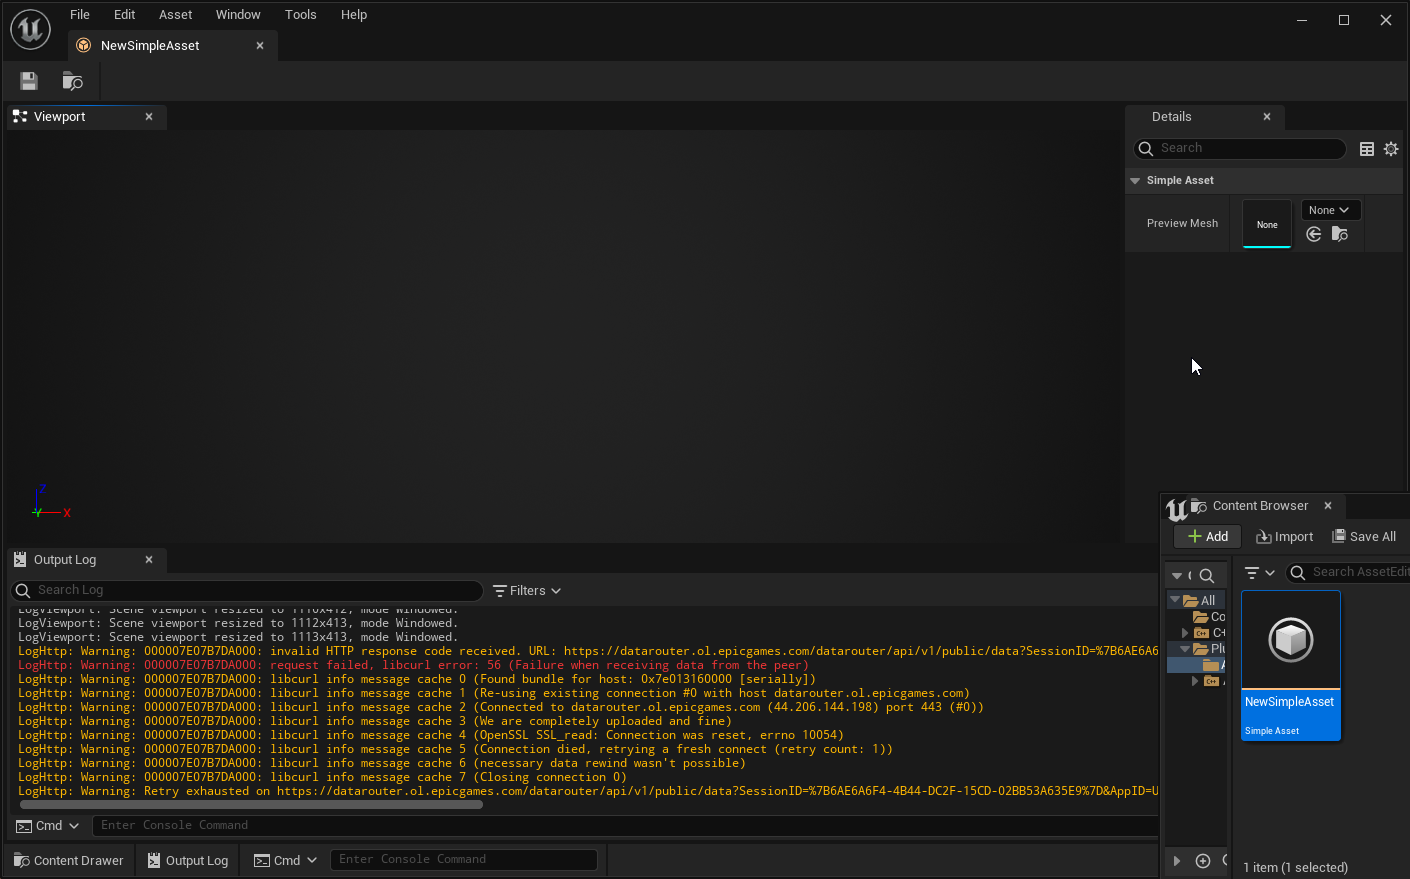
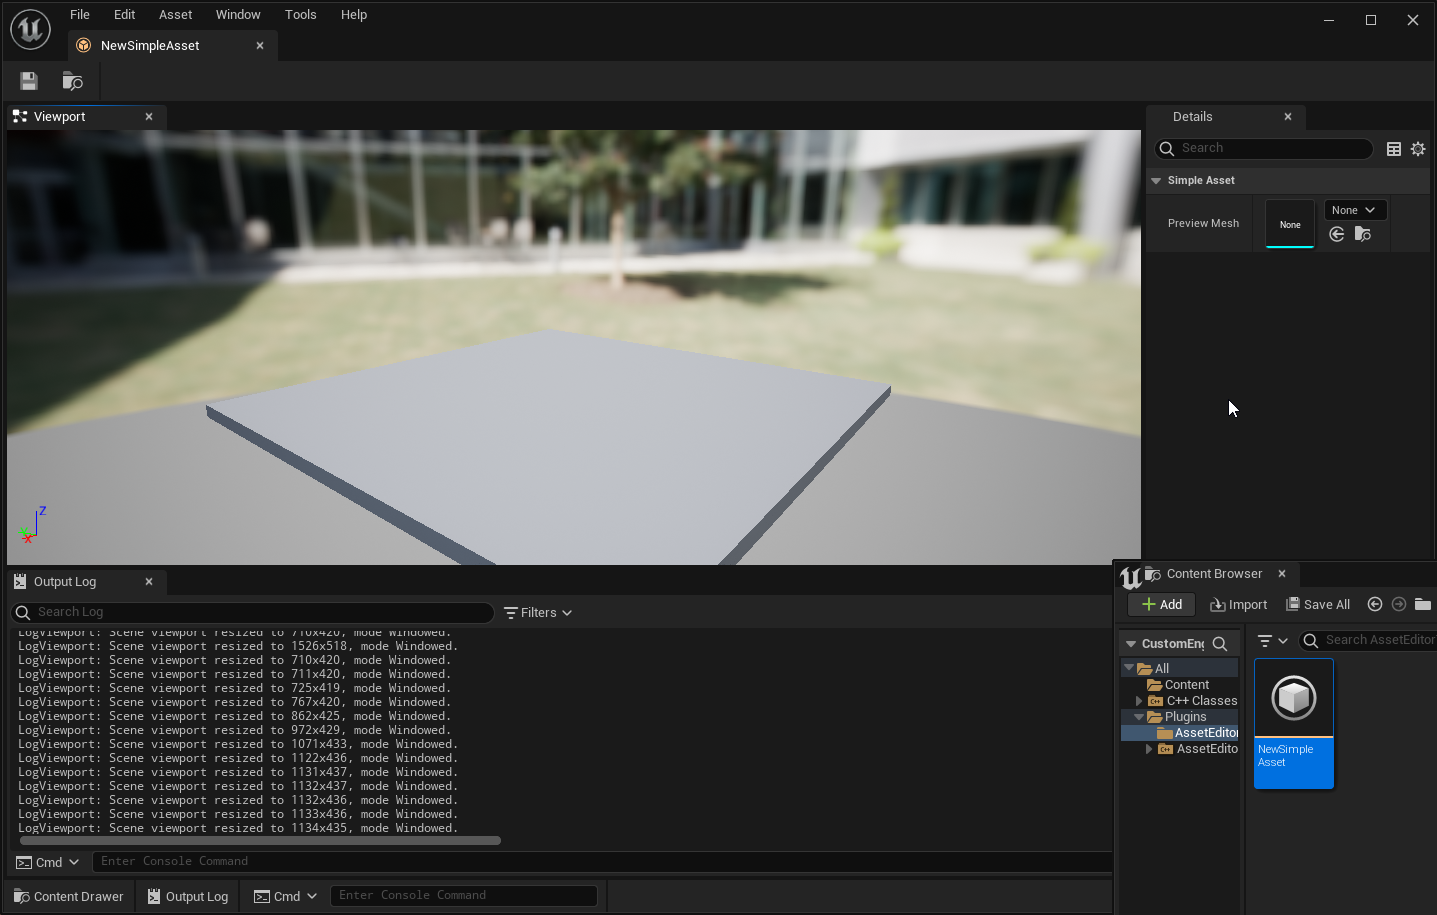
Fixed Viewport and updated thumbnail

diff --git a/Source/AssetEditorTemplateEditor/Public/SimpleAssetViewport.h b/Source/AssetEditorTemplateEditor/Public/SimpleAssetViewport.h
@@ -3,6 +3,7 @@
 #pragma once
 
 #include "CoreMinimal.h"
+#include "AdvancedPreviewScene.h"
 #include "SCommonEditorViewportToolbarBase.h"
 #include "SEditorViewport.h"
 
@@ -12,47 +13,48 @@ class FSimpleAssetEditorToolkit;
 
 struct FSimpleAssetViewportRequiredArgs
 {
-	FSimpleAssetViewportRequiredArgs(
-		const TSharedRef<FSimpleAssetEditorToolkit>& InAssetEditor,
-		const TSharedRef<FSimpleAssetPreviewScene>& InPreviewScene)
-		: AssetEditor(InAssetEditor)
-		, PreviewScene(InPreviewScene)
+	FSimpleAssetViewportRequiredArgs(const TSharedRef<class FSimpleAssetPreviewScene>& InPreviewScene, TSharedRef<class FAssetEditorToolkit> InAssetEditorToolkit, int32 InViewportIndex)
+	: PreviewScene(InPreviewScene)
+	, AssetEditorToolkit(InAssetEditorToolkit)
+	, ViewportIndex(InViewportIndex)
 	{
 	}
 
-	TSharedRef<FSimpleAssetEditorToolkit> AssetEditor;
 
-	TSharedRef<FSimpleAssetPreviewScene> PreviewScene;
+	TSharedRef<class FSimpleAssetPreviewScene> PreviewScene;
+	TSharedRef<class FAssetEditorToolkit> AssetEditorToolkit;
+	int32 ViewportIndex;
 };
 
 class FSimpleAssetViewportClient;
 /**
  * 
  */
-class SSimpleAssetViewport : public SEditorViewport, public ICommonEditorViewportToolbarInfoProvider
+class SSimpleAssetViewport : public SEditorViewport, public FGCObject, public ICommonEditorViewportToolbarInfoProvider
 {
 public:
+
 	SLATE_BEGIN_ARGS(SSimpleAssetViewport) {}
 	SLATE_END_ARGS()
 
-	virtual ~SSimpleAssetViewport() override;
-	
-	void Construct(const FArguments& InArgs, const FSimpleAssetViewportRequiredArgs& InRequiredArgs);
-	
-	// SEditorViewport interface
-	virtual TSharedPtr<SWidget> MakeViewportToolbar() override;
-	virtual TSharedRef<FEditorViewportClient> MakeEditorViewportClient() override;
-	virtual void BindCommands() override;
-	virtual void OnFocusViewportToSelection() override;
-	// End of SEditorViewport interface
+	/** The scene for this viewport. */
+	TSharedPtr<FAdvancedPreviewScene> PreviewScene;
 
-	// ICommonEditorViewportToolbarInfoProvider interface
-	virtual TSharedRef<SEditorViewport> GetViewportWidget() override;
+	void Construct(const FArguments& InArgs);
+
+	SSimpleAssetViewport();
+	~SSimpleAssetViewport();
+
+	void AddReferencedObjects(FReferenceCollector& Collector) override;
+	virtual TSharedRef<class SEditorViewport> GetViewportWidget() override;
 	virtual TSharedPtr<FExtender> GetExtenders() const override;
 	virtual void OnFloatingButtonClicked() override;
-	// End of ICommonEditorViewportToolbarInfoProvider interface
+
+	virtual TSharedRef<FEditorViewportClient> MakeEditorViewportClient() override;
+
+	TSharedPtr<class FSimpleAssetViewportClient> GetViewportClient() { return TypedViewportClient; };
 	
-	TSharedPtr<FSimpleAssetViewportClient> TypedViewportClient;
-	int32 TabIndex;
+	//Shared ptr to the client
+	TSharedPtr<class FSimpleAssetViewportClient> TypedViewportClient;
 	
 };

diff --git a/Source/AssetEditorTemplateEditor/Private/SimpleAssetViewport.cpp b/Source/AssetEditorTemplateEditor/Private/SimpleAssetViewport.cpp
@@ -4,52 +4,49 @@
 #include "SimpleAssetViewport.h"
 
 #include "SimpleAsset.h"
+#include "SimpleAssetPreviewScene.h"
 #include "SimpleAssetViewportClient.h"
+#include "CompGeom/DiTOrientedBox.h"
+
+//Just create the advnaced preview scene and initiate components
+SSimpleAssetViewport::SSimpleAssetViewport() : PreviewScene(MakeShareable(new FAdvancedPreviewScene(FPreviewScene::ConstructionValues())))
+{
+
+}
 
 SSimpleAssetViewport::~SSimpleAssetViewport()
 {
-	TypedViewportClient = nullptr;
+	if (TypedViewportClient.IsValid())
+	{
+		TypedViewportClient->Viewport = nullptr;
+	}
 }
 
-void SSimpleAssetViewport::Construct(const FArguments& InArgs, const FSimpleAssetViewportRequiredArgs& InRequiredArgs)
+void SSimpleAssetViewport::AddReferencedObjects(FReferenceCollector& Collector)
 {
-	TypedViewportClient = MakeShareable(new FSimpleAssetViewportClient(TabIndex));
-	SEditorViewport::Construct(SEditorViewport::FArguments());
-}
 
-TSharedPtr<SWidget> SSimpleAssetViewport::MakeViewportToolbar()
-{
-	return SEditorViewport::MakeViewportToolbar();
 }
-
-TSharedRef<FEditorViewportClient> SSimpleAssetViewport::MakeEditorViewportClient()
-{
-	return TypedViewportClient.ToSharedRef();
-}
-
-void SSimpleAssetViewport::BindCommands()
-{
-	SEditorViewport::BindCommands();
-	TSharedRef<FSimpleAssetViewportClient> EditorViewportClientRef = TypedViewportClient.ToSharedRef();
-	
-}
-
-void SSimpleAssetViewport::OnFocusViewportToSelection()
-{
-	SEditorViewport::OnFocusViewportToSelection();
-}
-
-TSharedRef<SEditorViewport> SSimpleAssetViewport::GetViewportWidget()
+TSharedRef<class SEditorViewport> SSimpleAssetViewport::GetViewportWidget()
 {
 	return SharedThis(this);
 }
-
 TSharedPtr<FExtender> SSimpleAssetViewport::GetExtenders() const
 {
 	TSharedPtr<FExtender> Result(MakeShareable(new FExtender));
 	return Result;
 }
-
 void SSimpleAssetViewport::OnFloatingButtonClicked()
 {
+	// Nothing
+}
+
+void SSimpleAssetViewport::Construct(const FArguments& InArgs)
+{
+	SEditorViewport::Construct(SEditorViewport::FArguments());
+}
+
+TSharedRef<FEditorViewportClient> SSimpleAssetViewport::MakeEditorViewportClient()
+{
+	TypedViewportClient = MakeShareable(new FSimpleAssetViewportClient(SharedThis(this), PreviewScene.ToSharedRef()));
+	return TypedViewportClient.ToSharedRef();
 }

diff --git a/Source/AssetEditorTemplateEditor/Private/SimpleAssetViewportClient.cpp b/Source/AssetEditorTemplateEditor/Private/SimpleAssetViewportClient.cpp
@@ -3,43 +3,31 @@
 
 #include "SimpleAssetViewportClient.h"
 
-FSimpleAssetViewportClient::FSimpleAssetViewportClient(int32 InTabIndex)
-	: FEditorViewportClient(nullptr, nullptr, nullptr)
+FSimpleAssetViewportClient::FSimpleAssetViewportClient(const TSharedRef<SEditorViewport>& InThumbnailViewport,
+	const TSharedRef<FAdvancedPreviewScene>& InPreviewScene)
+	: FEditorViewportClient(nullptr, &InPreviewScene.Get(), StaticCastSharedRef<SEditorViewport>(InThumbnailViewport))
+	, ViewportPtr(InThumbnailViewport)
 {
+	AdvancedPreviewScene = static_cast<FAdvancedPreviewScene*>(PreviewScene);
+
+	SetRealtime(true);
+
+	// Hide grid, we don't need this.
+	DrawHelper.bDrawGrid = false;
+	DrawHelper.bDrawPivot = false;
+	DrawHelper.AxesLineThickness = 5;
+	DrawHelper.PivotSize = 5;
+
+	//Initiate view
+	SetViewLocation(FVector(75, 75, 75));
+	SetViewRotation(FVector(-75, -75, -75).Rotation());
+
+	EngineShowFlags.SetScreenPercentage(true);
+
+	// Set the Default type to Ortho and the XZ Plane
+	ELevelViewportType NewViewportType = LVT_Perspective;
+	SetViewportType(NewViewportType);
+
+	// View Modes in Persp and Ortho
 	SetViewModes(VMI_Lit, VMI_Lit);
-	
-	MyBGColor = FLinearColor::Black;
-
-	SetRealtime(false);
-
-	PreviewScene = &OwnedPreviewScene;
-
-	EngineShowFlags.Selection = true;
-	EngineShowFlags.SelectionOutline = true;
-	EngineShowFlags.Grid = false;
-}
-
-bool FSimpleAssetViewportClient::InputKey(const FInputKeyEventArgs& InEventArgs)
-{
-	return FEditorViewportClient::InputKey(InEventArgs);
-}
-
-FLinearColor FSimpleAssetViewportClient::GetBackgroundColor() const
-{
-	return FEditorViewportClient::GetBackgroundColor();
-}
-
-void FSimpleAssetViewportClient::ResetCameraView()
-{
-	UWorld* World = OwnedPreviewScene.GetWorld();
-
-	if (World->EditorViews.IsValidIndex(GetViewportType()))
-	{
-		FLevelViewportInfo& ViewportInfo = World->EditorViews[GetViewportType()];
-		SetInitialViewTransform(
-			GetViewportType(),
-			ViewportInfo.CamPosition,
-			ViewportInfo.CamRotation,
-			ViewportInfo.CamOrthoZoom);
-	}
 }

diff --git a/Source/AssetEditorTemplateEditor/Public/SimpleAssetViewportClient.h b/Source/AssetEditorTemplateEditor/Public/SimpleAssetViewportClient.h
@@ -3,40 +3,28 @@
 #pragma once
 
 #include "CoreMinimal.h"
+#include "AdvancedPreviewScene.h"
 #include "Widgets/DeclarativeSyntaxSupport.h"
 #include "EditorViewportClient.h"
 #include "SEditorViewport.h"
 #include "Editor/UnrealEd/Public/SCommonEditorViewportToolbarBase.h"
 
+class FSimpleAssetPreviewScene;
+class FSimpleAssetEditorToolkit;
+class SSimpleAssetViewport;
 /**
  * 
  */
 class FSimpleAssetViewportClient : public FEditorViewportClient
 {
 public:
-	FSimpleAssetViewportClient(int32 InTabIndex);
-	
-	// FViewportClient interface
-	virtual bool InputKey(const FInputKeyEventArgs& InEventArgs) override;
-	// End of FViewportClient interface
 
-	// FEditorViewportClient interface
-	virtual FLinearColor GetBackgroundColor() const override;
-	// End of FEditorViewportClient interface
-	
-	void SetOwnerWidget(const TWeakPtr<SEditorViewport> OwnerPtr)
-	{
-		EditorViewportWidget = OwnerPtr;
-	}
+	/** Pointer back to the Editor Viewport */
+	TWeakPtr<class SEditorViewport> ViewportPtr;
 
-	void ResetCameraView();
-	
-private:
-	int32 TabIndex;
+	//Constructor and destructor
+	FSimpleAssetViewportClient(const TSharedRef<SEditorViewport>& InThumbnailViewport, const TSharedRef<FAdvancedPreviewScene>& InPreviewScene);
 
-	// The preview scene
-	FPreviewScene OwnedPreviewScene;
-
-	FAssetData SourceWorldAsset;
-	FLinearColor MyBGColor;
+	/** Stored pointer to the preview scene in which the static mesh is shown */
+	FAdvancedPreviewScene* AdvancedPreviewScene;
 };

diff --git a/Source/AssetEditorTemplateEditor/Private/SimpleAssetEditorToolkit.cpp b/Source/AssetEditorTemplateEditor/Private/SimpleAssetEditorToolkit.cpp
@@ -35,13 +35,9 @@ void FSimpleAssetEditorToolkit::InitAssetEditor(const EToolkitMode::Type Mode, c
 	}
 	
 	// Create viewport widget
-	FSimpleAssetViewportRequiredArgs PreviewArgs(
-		StaticCastSharedRef<FSimpleAssetEditorToolkit>(AsShared()),
-		PreviewScene.ToSharedRef());
+	PreviewWidget = SNew(SSimpleAssetViewport);
 	
-	PreviewWidget = SNew(SSimpleAssetViewport, PreviewArgs);
-	
-	const TSharedRef<FTabManager::FLayout> Layout = FTabManager::NewLayout("NormalDistributionEditorLayoutv1.0")
+	const TSharedRef<FTabManager::FLayout> Layout = FTabManager::NewLayout("SimpleAssetEditorLayoutv1.0")
 	->AddArea
 	(
 		FTabManager::NewPrimaryArea()->SetOrientation(Orient_Vertical)
